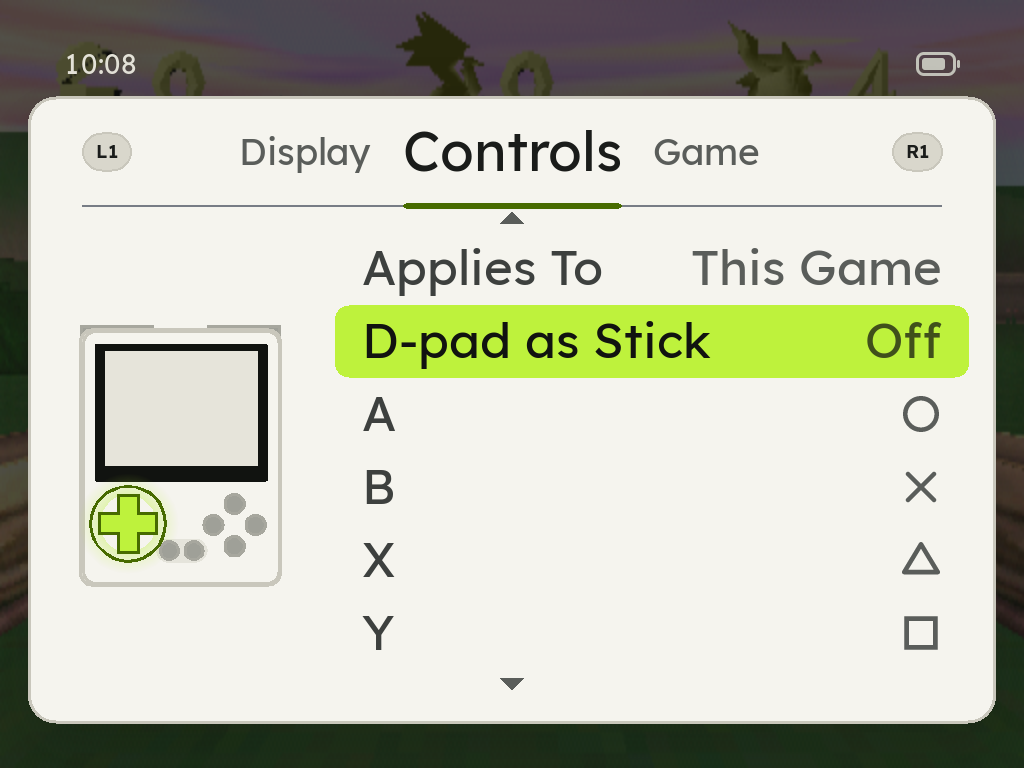
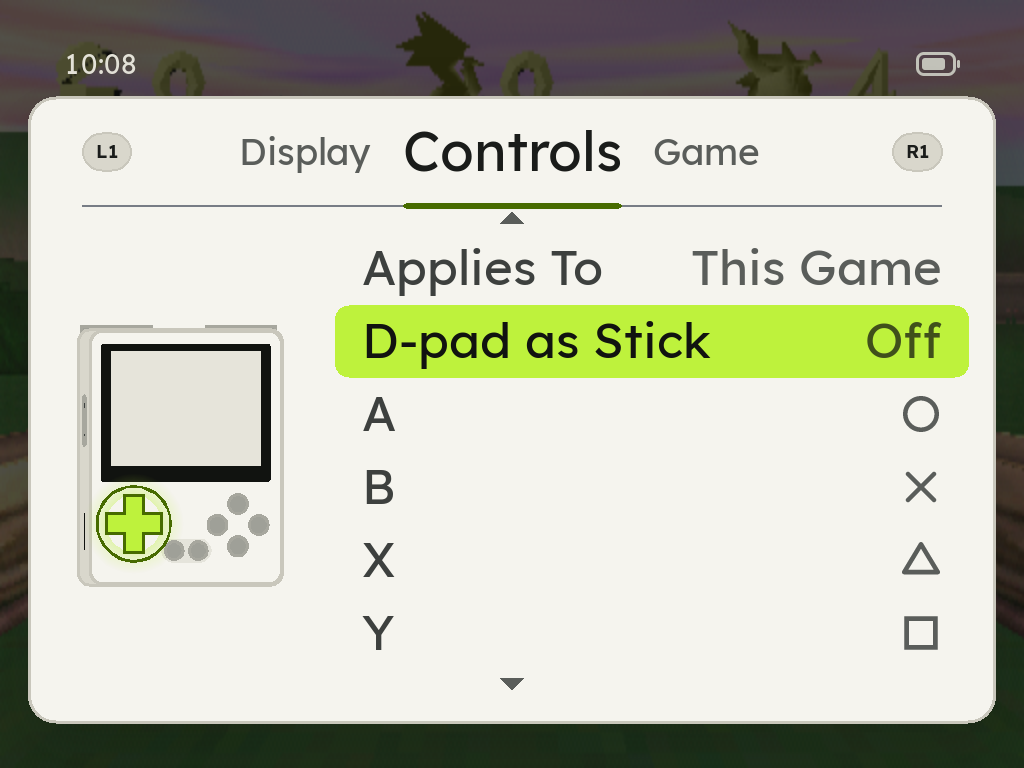
Controls tab: shoulders tilt the handheld back, the d-pad leans further
ct_lean gives a pose now, a yaw and a pitch off the front pose: the faces 12
degrees right, the d-pad 22 left, level, with their side's shoulders or not;
shoulders alone on one side 12 toward it and tilted back 25 degrees, so the
top shows with the lit shoulder standing on it. SELECT, START, no keys or keys
on both sides stay front and level.

The tab eases the yaw and the pitch together in the turn token, retargeted
from where they are, never queued. The kept texture's box grows to hold the
tilted poses (measured over every row, Up and Down and the tab coming in).

ct_* checks for each row's pose; check-controls-shots compares L1 and R2 with
the d-pad, Y and SELECT; the PSP README shot is shot again (its d-pad row
leans further); DESIGN.md 11.10 and 11.45 and the spec say so.

Changed region(s): [[0.0625, 0.4375, 0.2812, 0.75]]

diff --git a/tools/menu-check.c b/tools/menu-check.c
@@ -1975,6 +1975,15 @@ static void ct_table(rm_table *t, const char *spec)
 	rm_parse(spec, t);
 }
 
+/* Whether the handheld's pose for `keys` is `yaw` and `pitch` off the front's */
+static bool lean_is(unsigned keys, float yaw, float pitch)
+{
+	float y = -99.0f, p = -99.0f;
+
+	ct_lean(keys, &y, &p);
+	return y == yaw && p == pitch;
+}
+
 /* Where row `id` is, -1 for nowhere */
 static int ct_at(const ct_row *ids, int n, ct_row id)
 {
@@ -2248,26 +2257,49 @@ static void ctl_tab(void)
 	ck(ct_lit(&m, CT_BUTTON + RM_Y) == 1u << TD_Y, "once the cursor comes back, Y alone");
 	ck(ct_lit(&m, CT_RESET) == (1u << TD_Y | 1u << TD_B), "Reset Buttons lights every changed button");
 
-	/* ct_lean: the handheld turns toward the side the focused row lights */
+	/* ct_lean: the handheld turns toward the side the focused row lights, the
+	 * d-pad's further, and tilts back to show its top for a shoulder */
+	ck(CT_LEAN_DPAD_DEG >= 20.0f && CT_LEAN_DPAD_DEG <= 25.0f && CT_LEAN_DPAD_DEG > CT_LEAN_DEG,
+	   "ct_lean: the d-pad leans 20 to 25 degrees, further than a side's keys");
+	ck(CT_PITCH_DEG > 0.0f, "ct_lean: a shoulder's pitch shows the top");
 	ct_ps1(&m);
-	ck(ct_lean(1u << TD_Y) == 1 && ct_lean(1u << TD_A | 1u << TD_R2) == 1, "ct_lean: right keys, +1");
-	ck(ct_lean(1u << TD_DPAD) == -1 && ct_lean(1u << TD_L2) == -1, "ct_lean: left keys, -1");
-	ck(ct_lean(1u << TD_SELECT) == 0 && ct_lean(1u << TD_START) == 0 && ct_lean(0) == 0,
-	   "ct_lean: the middle keys and none, front");
-	ck(ct_lean(1u << TD_DPAD | 1u << TD_SELECT) == -1, "ct_lean: left and centre is left");
-	ck(ct_lean(1u << TD_L1 | 1u << TD_R1) == 0, "ct_lean: both sides, front");
-	ck(ct_lean(ct_lit(&m, CT_BUTTON + RM_Y)) == 1, "ct_lean: the Y row leans right");
-	ck(ct_lean(ct_lit(&m, CT_BUTTON + RM_L2)) == -1, "ct_lean: the L2 row leans left");
-	ck(ct_lean(ct_lit(&m, CT_BUTTON + RM_SELECT)) == 0, "ct_lean: the SELECT row, front");
-	ck(ct_lean(ct_lit(&m, CT_STICK)) == -1, "ct_lean: D-pad as Stick leans left on the PlayStation");
-	ck(ct_lean(ct_lit(&m, CT_SCOPE)) == 0 && ct_lean(ct_lit(&m, CT_HOTKEYS)) == 0, "ct_lean: Applies To and Hotkeys, front");
+	ck(lean_is(ct_lit(&m, CT_BUTTON + RM_Y), CT_LEAN_DEG, 0.0f), "ct_lean: the Y row leans right, no pitch");
+	ck(lean_is(ct_lit(&m, CT_STICK), -CT_LEAN_DPAD_DEG, 0.0f),
+	   "ct_lean: D-pad as Stick on the PlayStation leans further left, no pitch");
+	ck(lean_is(ct_lit(&m, CT_BUTTON + RM_L1), -CT_LEAN_DEG, CT_PITCH_DEG), "ct_lean: the L1 row leans left and shows the top");
+	ck(lean_is(ct_lit(&m, CT_BUTTON + RM_L2), -CT_LEAN_DEG, CT_PITCH_DEG), "ct_lean: the L2 row leans left and shows the top");
+	ck(lean_is(ct_lit(&m, CT_BUTTON + RM_R2), CT_LEAN_DEG, CT_PITCH_DEG), "ct_lean: the R2 row leans right and shows the top");
+	ck(lean_is(ct_lit(&m, CT_BUTTON + RM_R1), CT_LEAN_DEG, CT_PITCH_DEG), "ct_lean: the R1 row leans right and shows the top");
+	ck(lean_is(ct_lit(&m, CT_BUTTON + RM_SELECT), 0.0f, 0.0f), "ct_lean: the SELECT row, front");
+	ck(lean_is(ct_lit(&m, CT_SCOPE), 0.0f, 0.0f) && lean_is(ct_lit(&m, CT_HOTKEYS), 0.0f, 0.0f),
+	   "ct_lean: Applies To and Hotkeys, front");
+	ck(lean_is(1u << TD_START, 0.0f, 0.0f) && lean_is(0, 0.0f, 0.0f), "ct_lean: START alone and no keys, front");
+	ck(lean_is(1u << TD_L1 | 1u << TD_R1, 0.0f, 0.0f), "ct_lean: both sides' shoulders, front");
+	ck(lean_is(1u << TD_L1 | 1u << TD_SELECT, -CT_LEAN_DEG, CT_PITCH_DEG),
+	   "ct_lean: a shoulder with a centre key leans to its side and shows the top");
+	ck(lean_is(1u << TD_A | 1u << TD_R2, CT_LEAN_DEG, 0.0f), "ct_lean: a face with a right shoulder, no pitch");
+	ck(lean_is(1u << TD_DPAD | 1u << TD_L2, -CT_LEAN_DPAD_DEG, 0.0f), "ct_lean: the d-pad with a left shoulder, the d-pad's");
 	rm_set(&m.cur, &m.base, RM_B, (rm_choice){ RT_L1, 0 });
-	ck(ct_lean(ct_lit(&m, CT_RESET)) == 0, "ct_lean: Reset Buttons with B and L1 changed, front");
+	ck(lean_is(ct_lit(&m, CT_RESET), 0.0f, 0.0f), "ct_lean: Reset Buttons with B and L1 changed, front");
 	ct_ps1(&m);
-	m.stick_on = true;
+	rm_set(&m.cur, &m.base, RM_B, (rm_choice){ RT_R1, 0 });
+	ck(lean_is(ct_lit(&m, CT_RESET), CT_LEAN_DEG, 0.0f), "ct_lean: Reset Buttons with B and R1 changed, right, no pitch");
+	/* The N64's stick lights the d-pad and SELECT: left and centre is left */
+	memset(&m, 0, sizeof m);
+	m.tag = "N64"; m.ext = "z64"; m.sys_label = "N64"; m.map = CT_N64_MAP;
+	ct_table(&m.def, CT_N64_MAP);
+	m.cur = m.base = m.def;
+	m.stick_offered = m.stick_on = m.stick_default = true;
 	m.select_held_c = true;
-	ck(ct_lean(ct_lit(&m, CT_STICK)) == -1, "ct_lean: the stick on the N64 (d-pad and SELECT) leans left");
-	ct_ps1(&m);
+	ck(ct_lit(&m, CT_STICK) == (1u << TD_DPAD | 1u << TD_SELECT) && lean_is(ct_lit(&m, CT_STICK), -CT_LEAN_DPAD_DEG, 0.0f),
+	   "ct_lean: the stick on the N64 (d-pad and SELECT) leans as the d-pad does");
+	/* The Dreamcast's Face Buttons light the four faces */
+	memset(&m, 0, sizeof m);
+	m.tag = "DC"; m.ext = "chd"; m.sys_label = "Dreamcast"; m.map = CT_DC_MAP;
+	ct_table(&m.def, CT_DC_MAP);
+	m.cur = m.base = m.zdef = m.def;
+	m.face_offered = ctl_letter_layout("DC", &m.letters);
+	ck(lean_is(ct_lit(&m, CT_FACE), CT_LEAN_DEG, 0.0f), "ct_lean: Face Buttons lean right, no pitch");
 
 	/* The steps, round the choices, and Nothing */
 	ct_ps1(&m);

diff --git a/src/ctltab_screen.c b/src/ctltab_screen.c
@@ -33,22 +33,26 @@
 #define DEV_DEG   10.0f
 /* Turned this far as the tab comes in, to DEV_DEG in **turn** */
 #define DEV_DEG_IN 40.0f
-/* Leaning toward the side of the keys the focused row lights, this far
- * either way of DEV_DEG, in **turn** (ct_lean says which side) */
-#define DEV_LEAN  12.0f
 /* How far a tab's move takes it: in with the rows, 64 units the press's way;
  * out with the old tab's name, 96 the press's way (menu_tabs_draw's) */
 #define DEV_IN_DX  64.0f
 #define DEV_OUT_DX 96.0f
 /* The kept texture's box about the handheld's middle: what a lit shoulder's
- * halo, the d-pad's ring and the faces' halos reach in every pose here */
+ * halo, the d-pad's ring and the faces' halos reach in every pose here and
+ * every frame between, the tilted ones too (their far top corner and a lit
+ * shoulder's halo higher, their near bottom corner lower: measured x -122 to
+ * 124, y -174 to 154, the tab coming in on R2 at 52 degrees the lowest) */
 #define KEEP_L 128
-#define KEEP_T 164
+#define KEEP_T 176
 #define KEEP_W 256
-#define KEEP_H 300
+#define KEEP_H 332
 
 /* Which screen sets the handheld's lights: the tab, or a button's choices */
 typedef enum { CS_TAB, CS_PICK } cs_mode;
+
+/* The handheld's lean toward the keys the focused row lights (ct_lean):
+ * degrees off the front pose, turned (off DEV_DEG) and tilted back */
+typedef struct { float yaw, pitch; } cs_lean;
 
 static struct {
 	/* The card as the tab shows it, read again when it changed */
@@ -71,9 +75,9 @@ static struct {
 	rm_table    base;
 	/* Each key's light, and its press: from where it was, and when */
 	tween       on[TD_KEYS];
-	/* The lean, degrees off DEV_DEG: from where it was, to where it goes,
-	 * and when, retargeted at each new row, never queued */
-	float       lean_from, lean_to;
+	/* The lean: from where it was, to where it goes, and when, the turn
+	 * and the tilt together, retargeted at each new row, never queued */
+	cs_lean     lean_from, lean_to;
 	unsigned    lean_t0;
 	bool        snap;
 	float       press_from[TD_KEYS];
@@ -237,25 +241,29 @@ static void press(int k)
 	g_cs.press_t0[k] = now ? now : 1;
 }
 
-/* The lean (degrees off DEV_DEG) at `now`, in **turn** */
-static float lean_at(unsigned now)
+/* The lean at `now`: the turn and the tilt eased together in **turn** */
+static cs_lean lean_at(unsigned now)
 {
 	const unsigned el = now - g_cs.lean_t0;
+	const cs_lean a = g_cs.lean_from, b = g_cs.lean_to;
+	float k;
 
-	if (!g_cs.lean_t0 || el >= DS_MS_TURN) return g_cs.lean_to;
-	return g_cs.lean_from + (g_cs.lean_to - g_cs.lean_from) * ds_turn((float)el / DS_MS_TURN);
+	if (!g_cs.lean_t0 || el >= DS_MS_TURN) return b;
+	k = ds_turn((float)el / DS_MS_TURN);
+	return (cs_lean){ a.yaw + (b.yaw - a.yaw) * k, a.pitch + (b.pitch - a.pitch) * k };
 }
 
-/* The lean heads for the side of `target`'s keys, from where it is; there at
- * once, the first time */
+/* The lean heads for the pose `target`'s keys ask for, from where it is;
+ * there at once, the first time */
 static void lean_toward(unsigned target, unsigned now)
 {
-	const float to = DEV_LEAN * (float)ct_lean(target);
+	cs_lean to;
 
+	ct_lean(target, &to.yaw, &to.pitch);
 	if (g_cs.snap) {
 		g_cs.lean_from = g_cs.lean_to = to;
 		g_cs.lean_t0 = 0;
-	} else if (to != g_cs.lean_to) {
+	} else if (to.yaw != g_cs.lean_to.yaw || to.pitch != g_cs.lean_to.pitch) {
 		g_cs.lean_from = lean_at(now);
 		g_cs.lean_to = to;
 		g_cs.lean_t0 = now ? now : 1;
@@ -304,6 +312,7 @@ static bool lights_of(const menu_side *at, unsigned *target)
 static bool pose_of(const menu_side *at, td_pose *p, bool *moving)
 {
 	float dx = 0.0f, op = 1.0f, deg = DEV_DEG;
+	cs_lean ln;
 	int k;
 
 	*moving = false;
@@ -329,7 +338,8 @@ static bool pose_of(const menu_side *at, td_pose *p, bool *moving)
 		if (mv < 1.0f) *moving = true;
 	}
 	if (op <= 0.004f) return false;
-	deg += lean_at(at->now);
+	ln = lean_at(at->now);
+	deg += ln.yaw;
 	if (g_cs.lean_t0 && at->now - g_cs.lean_t0 < DS_MS_TURN) *moving = true;
 	/* Cleared whole, padding too, so two poses compare as bytes */
 	memset(p, 0, sizeof *p);
@@ -337,6 +347,7 @@ static bool pose_of(const menu_side *at, td_pose *p, bool *moving)
 	p->cy = DEV_CY;
 	p->scale = DEV_SCALE;
 	p->deg = deg;
+	p->pitch = ln.pitch;
 	p->op = op;
 	for (k = 0; k < TD_KEYS; k++) {
 		p->on[k] = tween_at(&g_cs.on[k], at->now);
@@ -385,7 +396,7 @@ void ctlscr_open(void)
 	g_cs.base_row = -1;
 	g_cs.mode = CS_TAB;
 	g_cs.steady = false;
-	g_cs.lean_from = g_cs.lean_to = 0.0f;
+	g_cs.lean_from = g_cs.lean_to = (cs_lean){ 0.0f, 0.0f };
 	g_cs.lean_t0 = 0;
 	for (k = 0; k < TD_KEYS; k++) g_cs.press_t0[k] = 0;
 }

diff --git a/src/ctltab.h b/src/ctltab.h
@@ -118,11 +118,20 @@ int ct_rows(const ct_model *m, ct_row *ids, menu_row *out, unsigned *vcol, ct_bu
  * sets; Reset Buttons every changed button; the rest none. */
 unsigned ct_lit(const ct_model *m, ct_row id);
 
-/* Which way the handheld leans for the keys a row lights (a ct_lit mask):
- * +1 toward its right side (A, B, X, Y, R1, R2), -1 toward its left (the
- * d-pad, L1, L2), 0 for the front: SELECT and START alone, no keys, or keys
- * on both sides. A side key with a centre key leans to its side. */
-int ct_lean(unsigned keys);
+/* The handheld's lean, degrees off the front pose (DESIGN.md 11.45) */
+#define CT_LEAN_DEG      12.0f   /* the faces' turn, and the shoulders' toward their side */
+#define CT_LEAN_DPAD_DEG 22.0f   /* the d-pad's, further */
+#define CT_PITCH_DEG     25.0f   /* the shoulders' tilt back, so the top shows */
+
+/* The pose the handheld takes for the keys a row lights (a ct_lit mask), as
+ * offsets from the front pose: the yaw in *yaw_deg (more than 0 shows its
+ * right side) and the pitch in *pitch_deg (more than 0 shows its top). The
+ * faces turn it CT_LEAN_DEG right and the d-pad CT_LEAN_DPAD_DEG left,
+ * level, with their side's shoulders or not; shoulders alone on one side
+ * turn it CT_LEAN_DEG their way and tilt it CT_PITCH_DEG. SELECT and START
+ * alone, no keys, or keys on both sides: the front pose, level. A centre
+ * key with side keys changes nothing. */
+void ct_lean(unsigned keys, float *yaw_deg, float *pitch_deg);
 
 /* The button a button row is about (RM_*), -1 for another row */
 int ct_button_of(ct_row id);

diff --git a/src/ctltab.c b/src/ctltab.c
@@ -295,13 +295,25 @@ unsigned ct_lit(const ct_model *m, ct_row id)
 	}
 }
 
-int ct_lean(unsigned keys)
+void ct_lean(unsigned keys, float *yaw_deg, float *pitch_deg)
 {
+	const unsigned shoulders = 1u << TD_L1 | 1u << TD_L2 | 1u << TD_R1 | 1u << TD_R2;
 	const unsigned left = 1u << TD_DPAD | 1u << TD_L1 | 1u << TD_L2;
 	const unsigned right = 1u << TD_A | 1u << TD_B | 1u << TD_X | 1u << TD_Y | 1u << TD_R1 | 1u << TD_R2;
 	const bool l = (keys & left) != 0, r = (keys & right) != 0;
+	/* The keys on the front of that side: the d-pad, or a face */
+	const bool front = (keys & (left | right) & ~shoulders) != 0;
 
-	return r && !l ? 1 : l && !r ? -1 : 0;
+	*yaw_deg = *pitch_deg = 0.0f;
+	/* Keys on both sides, or on neither: the front pose */
+	if (l == r) return;
+	if (front) {
+		*yaw_deg = l ? -CT_LEAN_DPAD_DEG : CT_LEAN_DEG;
+	} else {
+		/* Only shoulders on that side, a centre key with them or not */
+		*yaw_deg = l ? -CT_LEAN_DEG : CT_LEAN_DEG;
+		*pitch_deg = CT_PITCH_DEG;
+	}
 }
 
 /* ---- the steps ------------------------------------------------------------- */

diff --git a/DESIGN.md b/DESIGN.md
@@ -1104,10 +1104,12 @@ of the player's own goes on from wherever the loop was.
   in both themes.
   - **Shared with the Controls tab** (11.28, 11.45): the tutorial's handheld
     and the in-game menu's Controls tab draw the same Pixel 2 through
-    `td_draw`, from a pose (centre, scale, turn, each key's light and press)
-    and the theme's colors, into the one kept texture, sized for its caller.
-    The tutorial's look is the Controls tab's: a change to the model changes
-    both.
+    `td_draw`, from a pose (centre, scale, turn, tilt, each key's light and
+    press) and the theme's colors, into the one kept texture, sized for its
+    caller. The tutorial's look is the Controls tab's: a change to the model
+    changes both. Only the Controls tab tilts it (its shoulder rows, the top
+    face showing with the shoulders standing on it); the tutorial stays
+    level, and a level pose draws as it did before the tilt, pixel for pixel.
   - **Drawn** in code from `tools/build-pixel2-model.py`'s millimetres, the
     landing page's model, in the theme's roles and nothing else: the body
     **surface** with a 3-unit **edge**, its turned side **raised** (Beard)
@@ -3777,16 +3779,22 @@ button; D-pad as Stick the d-pad (and SELECT on the N64 and the Dreamcast);
 Face Buttons the four faces; Reset Buttons every changed button; a swap
 both buttons while the cursor stays on the row; Applies To, Pak and Hotkeys
 nothing. A lit shoulder stands up out of the top edge. It **leans**
-toward the side of the keys lit, 12 degrees either way of the front pose: the
-right keys (A, B, X, Y, R1, R2) turn it to show its right side (22 degrees),
-the left keys (the d-pad, L1, L2) the other way (-2); SELECT, START, keys on
-both sides and no keys bring it back to the front pose.
+toward the side of the keys lit: the faces (A, B, X, Y) turn it 12 degrees
+from the front pose to show its right side (22 degrees), the d-pad 22 the
+other way (-12). A shoulder row turns it 12 toward its side (R1 and R2 to 22
+degrees, L1 and L2 to -2) and **tilts it back 25 degrees**, as seen from a
+little above, so the top shows with the four shoulders standing on it and
+the lit one standing up out of it in the lit look; its upright edges stay
+upright. SELECT, START, keys on both sides and no keys bring it back to the
+front pose, level; a side key with a centre key leans to its side (the N64's
+d-pad and SELECT as the d-pad), and a face with a right shoulder as the face,
+level.
 
 | What | Token and how |
 |---|---|
-| R1 or L1 into Controls | the handheld comes with the rows, 64 units the press's way and faded up in **move**, and turns from 40 to 10 degrees, plus the lean of its first row, in **turn** |
+| R1 or L1 into Controls | the handheld comes with the rows, 64 units the press's way and faded up in **move**, and turns from 40 to 10 degrees, plus the lean of its first row, in **turn**; a shoulder row's tilt is there from the start |
 | Out of Controls | it leaves with the old tab's name, 96 units the press's way, gone in the first two fifths of **move** |
-| Up or Down | the fill glides in **quick**; the old key's light goes out and the new key's comes in, in **quick**; the lean eases to the new row's side in **turn**, from where it is |
+| Up or Down | the fill glides in **quick**; the old key's light goes out and the new key's comes in, in **quick**; the lean (the turn and the tilt together) eases to the new row's pose in **turn**, from where it is |
 | Left or Right on a button | the key presses in **press** (in, then out); a swapped partner lights in **quick** |
 | A shoulder row | the shoulder stands up in **quick** |
 | A to a button's choices, and back | the handheld holds still while the list beside it changes |

diff --git a/docs/superpowers/specs/2026-11-13-button-remap-design.md b/docs/superpowers/specs/2026-11-13-button-remap-design.md
@@ -349,12 +349,23 @@ row's pages, which are at their own width (section 2).
   button.
 - **Turn:** it faces front (the tutorial's front pose, 10 degrees). A lit
   shoulder stands up out of the top edge, as in the tutorial.
-- **Lean:** it turns a little toward the side of the keys the row lights,
-  12 degrees either way of the front pose: A, B, X, Y, R1 and R2 show its
-  right side (22 degrees), the d-pad, L1 and L2 its left (-2); SELECT, START,
-  keys on both sides (Reset Buttons) and no keys (Applies To, Pak, Hotkeys)
-  bring it back to front. A side key with a centre key (the N64's d-pad and
-  SELECT) leans to its side.
+- **Lean:** it turns toward the side of the keys the row lights: A, B, X
+  and Y 12 degrees from the front pose, showing its right side (22
+  degrees); the d-pad 22 the other way (-12), so its row leans as plainly as
+  theirs. SELECT, START, keys on both sides (Reset Buttons) and no keys
+  (Applies To, Pak, Hotkeys) bring it back to front. A side key with a
+  centre key (the N64's d-pad and SELECT) leans to its side; a face with a
+  right shoulder (Reset Buttons with B and R1) leans as the face.
+- **Tilt:** a row that lights only shoulders (L1, L2, R1, R2, a centre key
+  with them or not) turns it 12 degrees toward their side (R1 and R2 to 22
+  degrees, L1 and L2 to -2) and tilts it back 25 degrees, as seen from a
+  little above: the top face shows, with the four shoulders standing on it
+  as blocks where the model has them (toward the back), the lit one
+  standing up out of it in the lit look (fill, ring, halo). Its upright
+  edges stay upright. Every other row is level. 25 degrees is the value
+  that shows the lit shoulder's front and top plainly at the Pixel 2's 640 x
+  480 while the handheld still reads as standing (18 showed a thin top, 30
+  tipped it).
 
 ### 8. Motion
 
@@ -362,9 +373,9 @@ DESIGN.md 8's tokens and curves only; nothing overshoots.
 
 | What | How |
 |---|---|
-| R1 or L1 into Controls | the handheld comes with the rows: 64 units in the press's way, faded up, in **move** (160 ms, out), and turns from 40 to 10 degrees, plus the lean of its first row, in **turn** (300 ms) |
+| R1 or L1 into Controls | the handheld comes with the rows: 64 units in the press's way, faded up, in **move** (160 ms, out), and turns from 40 to 10 degrees, plus the lean of its first row, in **turn** (300 ms); a shoulder row's tilt is there from the start |
 | Out of Controls | it leaves with the old tab's name: 96 units the press's way, gone in the first two fifths of **move** |
-| Up or Down | the fill glides in **quick** (as today); the old key's light goes out and the new key's comes in, in **quick** (as the tutorial does); the lean eases to the new row's side in **turn**, retargeted from where it is, never queued |
+| Up or Down | the fill glides in **quick** (as today); the old key's light goes out and the new key's comes in, in **quick** (as the tutorial does); the lean, the turn and the tilt eased together, goes to the new row's pose in **turn**, retargeted from where it is, never queued |
 | Left or Right on a button | the key presses in **press** (80 ms in, 80 out); a swapped partner lights in **quick** |
 | A shoulder row | the shoulder stands up in **quick** |
 | A to a button's choices, and back | the handheld holds still while the list beside it changes |
